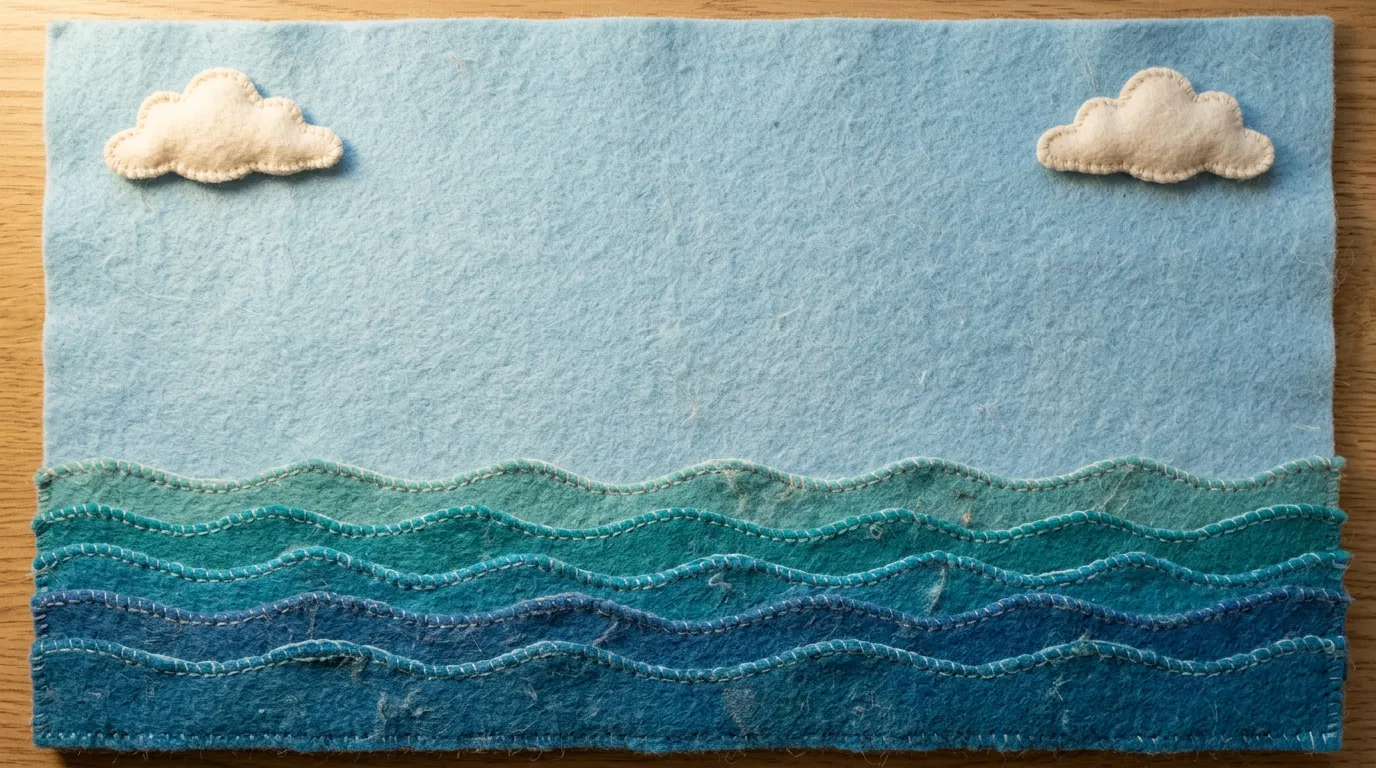
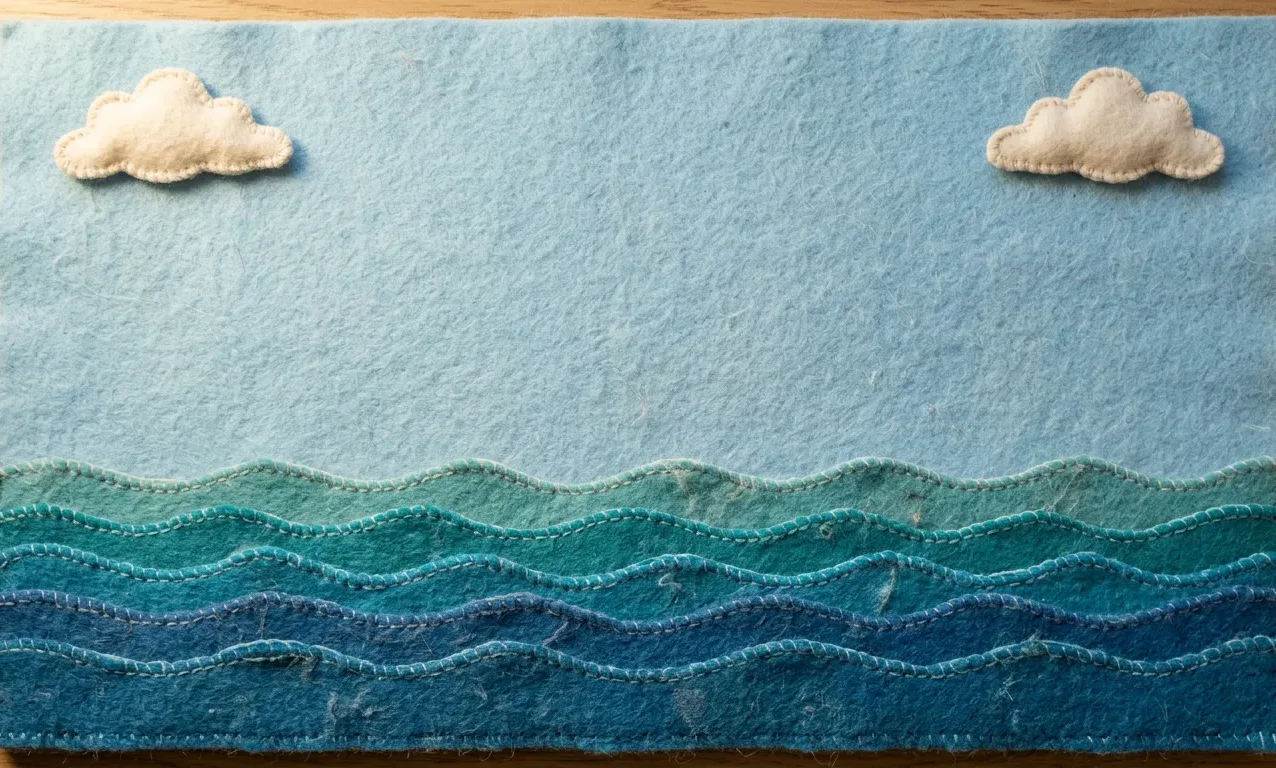
Noah's Ark: felt refresh
Claude-Session: https://claude.ai/code/session_01NGZ57BLqfmAdnsXYVQnQGN

diff --git a/games/ark.html b/games/ark.html
@@ -8,59 +8,59 @@
 <style>
 :root{color-scheme:dark;--display:"Fredoka","Baloo 2",system-ui,sans-serif;--body:"Atkinson Hyperlegible",system-ui,sans-serif;--sky:#3aa0ff}
 html,body{height:100%;margin:0}
-body{background:#140f3a;color:#fff;font-family:var(--body);overflow:hidden;touch-action:manipulation;user-select:none;-webkit-user-select:none;-webkit-tap-highlight-color:transparent}
+body{background:#8fc3dd;color:#4a3213;font-family:var(--body);overflow:hidden;touch-action:manipulation;user-select:none;-webkit-user-select:none;-webkit-tap-highlight-color:transparent}
 .app{height:100%;display:flex;flex-direction:column;box-sizing:border-box;padding:max(10px,env(safe-area-inset-top,0px)) max(14px,env(safe-area-inset-right,0px)) 10px max(14px,env(safe-area-inset-left,0px));gap:8px}
 .top{position:relative;display:flex;align-items:center;justify-content:center;min-height:58px;padding:0 112px}
-#bubble{font-size:clamp(22px,4.2vw,40px);min-height:1.2em;transition:transform .15s}
+#bubble{font-size:clamp(22px,4.2vw,40px);min-height:1.2em;transition:transform .15s;color:#fff8ec;text-shadow:0 3px 0 #7a3d12,0 6px 12px #0005;background:none;box-shadow:none;border:0}
 #bubble.bump{transform:scale(1.08)}
 .tools{position:absolute;right:0;top:50%;transform:translateY(-50%);display:flex;gap:8px;z-index:5}
-.tool{width:52px;height:52px;border-radius:50%;border:2px solid #ffffff55;background:#1a144066;color:#fff;font-size:26px;display:grid;place-items:center;cursor:pointer;padding:0}
-.tool[aria-pressed="true"]{background:#ffd23f;border-color:#fff;box-shadow:0 0 24px #ffd23f99}
+.tool{width:52px;height:52px;border-radius:50%;border:2px dashed #b8401f88;background:#f6ead0;box-shadow:0 3px 0 #0003,0 6px 10px #0003;color:#4a3213;font-size:26px;display:grid;place-items:center;cursor:pointer;padding:0}
+.tool[aria-pressed="true"]{background:#ffd84a;border-color:#b8401f;box-shadow:0 0 22px #ffd84a99,0 3px 0 #0003}
 .tool:focus-visible{outline:4px solid var(--sky);outline-offset:3px}
 
 /* the ark and the sea */
-.sea{position:relative;flex:0 0 clamp(170px,38%,340px);border-radius:26px;overflow:hidden;background:linear-gradient(#5aa9ff,#a8dcff 62%,#3d8fd6 62%,#2573c2)}
-.sea .deck{position:absolute;left:8%;right:8%;top:3%;bottom:39%;display:grid;grid-template-columns:repeat(5,1fr);grid-template-rows:minmax(0,1fr) minmax(0,1fr);gap:2px clamp(4px,1.4vw,14px);align-items:end;z-index:2}
+.sea{position:relative;flex:0 0 clamp(170px,38%,340px);border-radius:26px;overflow:hidden;background:#9cc9e0 url(../felt/ark-bg.webp) center bottom/cover no-repeat;container-type:size;box-shadow:0 6px 0 #0003,0 12px 18px #0003}
+.sea .deck{position:absolute;left:8%;right:8%;top:4%;bottom:41%;display:grid;grid-template-columns:repeat(5,1fr);grid-template-rows:minmax(0,1fr) minmax(0,1fr);gap:2px clamp(4px,1.4vw,14px);align-items:end;z-index:2}
 .sea .deck::before{content:"";position:absolute;left:-3%;right:-3%;top:50%;height:5px;border-radius:3px;background:#b96a3c;box-shadow:0 2px 0 #8a4724;z-index:-1}
 @media (max-width:560px){.top{padding:0 100px}.tool{width:44px;height:44px;font-size:22px}#bubble{font-size:20px}}
 .slot{position:relative;display:flex;align-items:flex-end;justify-content:center;min-width:0;min-height:0;height:100%;overflow:visible}
 .slot .pair{display:flex;width:100%;height:100%;justify-content:center;align-items:flex-end;min-height:0}
-.slot svg{display:block;flex:0 1 56%;margin:0 -3%;min-width:0;height:100%;max-height:100%;opacity:.14;filter:grayscale(1) brightness(2);transform:scale(.8);transition:opacity .3s,transform .4s cubic-bezier(.3,1.7,.5,1),filter .3s}
-.slot.on svg{opacity:1;filter:none;transform:none}
-.slot.on svg+svg{transition-delay:.12s}
-.hull{position:absolute;left:3%;right:3%;bottom:6%;height:34%;z-index:3;filter:drop-shadow(0 6px 8px #0005)}
-.hull svg{width:100%;height:100%;display:block}
+.slot .pi{display:block;flex:0 1 56%;margin:0 -3%;min-width:0;height:100%;max-height:100%;object-fit:contain;object-position:50% 100%;opacity:.14;filter:grayscale(1) brightness(2);transform:scale(.8);transition:opacity .3s,transform .4s cubic-bezier(.3,1.7,.5,1),filter .3s}
+.slot.on .pi{opacity:1;filter:none;transform:none}
+.slot.on .pi+.pi{transition-delay:.12s}
+.hull{position:absolute;left:3%;right:3%;bottom:8cqh;height:38cqh;z-index:3;border:solid transparent;border-width:0 calc(38cqh*.401);border-image:url(../felt/ark-hull2.webp) 0 144 0 144 fill/0 calc(38cqh*.401)/0 round;filter:drop-shadow(0 6px 8px #0005)}
+.hull i{position:absolute;top:54%;width:calc(38cqh*.2);aspect-ratio:1;transform:translate(-50%,-50%);border-radius:50%;background:radial-gradient(circle at 40% 35%,#f8e9c4,#e6cf9b);border:calc(38cqh*.035) solid #4a2c14;box-shadow:inset 0 2px 3px #0004}
+.deck::before{display:none}
 .sea.rock .hull,.sea.rock .deck{animation:rock 3s ease-in-out infinite}
 @keyframes rock{0%,100%{transform:rotate(-1.6deg)}50%{transform:rotate(1.6deg) translateY(-2px)}}
-.waves{position:absolute;left:0;right:0;bottom:0;height:22%;z-index:4;pointer-events:none}
+.waves{display:none}
 .waves svg{width:200%;height:100%;display:block;animation:drift 9s linear infinite}
 @keyframes drift{to{transform:translateX(-50%)}}
 .rainbow{position:absolute;inset:4% 4% 20% 4%;z-index:1;opacity:0;transition:opacity 1s;pointer-events:none}
-.rainbow svg{width:100%;height:100%}
+.rainbow img{width:100%;height:100%;object-fit:contain;object-position:50% 100%}
 .sea.done .rainbow{opacity:1}
 #rain{position:absolute;inset:0;width:100%;height:100%;z-index:5;pointer-events:none;display:none}
-.sea.wet{background:linear-gradient(#5b6f98,#8fa0c2 62%,#2e5f96 62%,#244f84)}
-.sun{position:absolute;right:7%;top:8%;width:clamp(36px,7vw,64px);aspect-ratio:1;border-radius:50%;background:radial-gradient(circle,#fff6c8,#ffd23f 55%,#ffd23f00 72%);z-index:0;transition:opacity .6s}
-.sea.wet .sun{opacity:0}
+.sea.wet::after{content:"";position:absolute;inset:0;background:#3a4f78;mix-blend-mode:multiply;opacity:.65;z-index:4;pointer-events:none}
+.sun{display:none}
 
 /* the animals to tap */
 .grid{flex:1;min-height:0;display:grid;grid-template-columns:repeat(5,1fr);grid-template-rows:repeat(2,1fr);gap:clamp(8px,1.8vw,18px);container-type:size}
 @media (max-aspect-ratio:1/1){.grid{grid-template-columns:repeat(2,1fr);grid-template-rows:repeat(5,1fr)}}
-.card{position:relative;display:grid;grid-template-rows:1fr auto;justify-items:center;align-items:center;min-height:0;border:2px solid #ffffff33;border-radius:22px;background:#ffffff14;padding:6px 4px 8px;cursor:pointer;color:#fff;font:inherit}
+.card{position:relative;display:grid;grid-template-rows:1fr auto;justify-items:center;align-items:center;min-height:0;border:2px dashed #b8401f88;border-radius:18px;background:#f6ead0;box-shadow:0 4px 0 #0003,0 8px 14px #0003;padding:6px 4px 8px;cursor:pointer;color:#4a3213;font:inherit}
 .card:focus-visible{outline:5px solid var(--sky);outline-offset:3px}
 .card .art{position:relative;width:100%;height:100%;min-height:0}
-.card .art svg{position:absolute;inset:0;width:100%;height:100%;overflow:visible}
-.card.pop .art svg{animation:hop .6s cubic-bezier(.3,1.5,.5,1)}
+.card .art .pi{position:absolute;inset:0;width:100%;height:100%;object-fit:contain;filter:drop-shadow(0 4px 3px #0003)}
+.card.pop .art .pi{animation:hop .6s cubic-bezier(.3,1.5,.5,1)}
 @keyframes hop{0%{transform:scale(1)}25%{transform:translateY(-14%) scale(1.14) rotate(-5deg)}55%{transform:scale(.96)}100%{transform:scale(1)}}
 .card .nm{font-family:var(--display);font-weight:600;font-size:clamp(14px,2.4vw,24px);line-height:1.1;text-align:center;min-height:1.1em;padding-top:2px}
-.badge{position:absolute;top:-8px;right:-6px;min-width:34px;height:34px;border-radius:50%;background:linear-gradient(135deg,#ffe27a,#ffa51f);color:#3a2a06;font:700 16px var(--display);display:grid;place-items:center;border:2px solid #fff;box-shadow:0 2px 8px #0006}
-.card.aboard{background:#58d26b26;border-color:#58d26b99}
-.card.aboard .badge{background:linear-gradient(135deg,#a8f0a0,#33a24f);color:#0d3a1a}
+.badge{position:absolute;top:-8px;right:-6px;min-width:34px;height:34px;border-radius:50%;background:#c8402f;color:#fff8ec;font:700 16px var(--display);display:grid;place-items:center;border:2px dashed #fff8ec;box-shadow:0 2px 0 #0004,0 4px 8px #0004}
+.card.aboard{background:#e0efc4;border-color:#5f8f3a}
+.card.aboard .badge{background:#5f8f3a;color:#fff}
 .flyer{position:fixed;left:0;top:0;z-index:20;pointer-events:none;filter:drop-shadow(0 6px 8px #0006)}
-.flyer svg{width:100%;height:100%;display:block}
+.flyer .pi{width:100%;height:100%;display:block;object-fit:contain}
 .k-eyes{animation:blink 5s infinite;transform-box:fill-box;transform-origin:center}
 @keyframes blink{0%,94%,100%{transform:scaleY(1)}97%{transform:scaleY(.1)}}
-@media (prefers-reduced-motion:reduce){.sea.rock .hull,.sea.rock .deck,.waves svg,.card.pop .art svg,.k-eyes{animation:none}.slot svg{transition:none}}
+@media (prefers-reduced-motion:reduce){.sea.rock .hull,.sea.rock .deck,.card.pop .art .pi,.k-eyes{animation:none}.slot .pi{transition:none}}
 </style>
 </head>
 <body>
@@ -74,9 +74,9 @@ body{background:#140f3a;color:#fff;font-family:var(--body);overflow:hidden;touch
   </div>
   <div class="sea" id="sea">
     <div class="sun"></div>
-    <div class="rainbow" aria-hidden="true"><svg viewBox="0 0 200 100" preserveAspectRatio="xMidYMax meet"><g fill="none" stroke-width="7"><path d="M20 100a80 80 0 0 1 160 0" stroke="#ff4d5e"/><path d="M27 100a73 73 0 0 1 146 0" stroke="#ff8a3d"/><path d="M34 100a66 66 0 0 1 132 0" stroke="#ffd23f"/><path d="M41 100a59 59 0 0 1 118 0" stroke="#58d26b"/><path d="M48 100a52 52 0 0 1 104 0" stroke="#3aa0ff"/><path d="M55 100a45 45 0 0 1 90 0" stroke="#8b5cf6"/></g></svg></div>
+    <div class="rainbow" aria-hidden="true"><img src="../felt/ark-rainbow.webp" alt=""></div>
     <div class="deck" id="deck"></div>
-    <div class="hull" aria-hidden="true"><svg viewBox="0 0 400 80" preserveAspectRatio="none"><path d="M0 8h400l-34 60q-8 10-22 10H56q-14 0-22-10Z" fill="url(#k-brown)"/><path d="M0 8h400" stroke="#e3a274" stroke-width="8" stroke-linecap="round"/><g fill="#ffd23f"><circle cx="90" cy="38" r="7"/><circle cx="150" cy="38" r="7"/><circle cx="210" cy="38" r="7"/><circle cx="270" cy="38" r="7"/><circle cx="330" cy="38" r="7"/></g><path d="M40 56h320" stroke="#8a4724" stroke-width="3" opacity=".5"/></svg></div>
+    <div class="hull" aria-hidden="true"><i style="left:21%"></i><i style="left:35.5%"></i><i style="left:50%"></i><i style="left:64.5%"></i><i style="left:79%"></i></div>
     <div class="waves" aria-hidden="true"><svg viewBox="0 0 800 60" preserveAspectRatio="none"><path d="M0 22q50-22 100 0t100 0 100 0 100 0 100 0 100 0 100 0 100 0V60H0Z" fill="#3d8fd6" opacity=".9"/><path d="M0 34q50-16 100 0t100 0 100 0 100 0 100 0 100 0 100 0 100 0V60H0Z" fill="#2573c2"/></svg></div>
     <canvas id="rain"></canvas>
   </div>
@@ -106,6 +106,8 @@ const DATA={
   pt:{title:"A arca de Noé",one:"um",two:"dois",all:"Todos a bordo!",rain:"a chuva",rainbow:"o arco-íris"}
  }
 };
+const PICS={unicorn:"fw-unicorn",cat:"sky-cat",mouse:"peek-mouse",elephant:"sky-elephant",crocodile:"ark-croc",penguin:"fw-penguin",snake:"ark-snake",lion:"ark-lion",turtle:"sky-turtle",parrot:"ark-parrot"};
+const pic=a=>`<img class="pi" src="../felt/${PICS[a]}.webp" alt="" draggable="false">`;
 const W=Object.fromEntries(DATA.words.map(w=>[w.id,w]));
 const $=id=>document.getElementById(id);
 const L=()=>LP.t(DATA.lines);
@@ -116,8 +118,8 @@ function bubble(t){const b=$("bubble");b.textContent=t;b.classList.remove("bump"
 const aboard=new Set();let finishing=false,raining=false,musicOn=false;
 
 function build(){
- $("grid").innerHTML=DATA.words.map(w=>`<button type="button" class="card" data-id="${w.id}" data-tap aria-label="${word(w.id)}"><span class="badge">×2</span><span class="art">${LPLook.pic(w.art)}</span><span class="nm">${word(w.id)}</span></button>`).join("");
- $("deck").innerHTML=DATA.words.map(w=>`<div class="slot" data-slot="${w.id}"><div class="pair">${LPLook.pic(w.art)}${LPLook.pic(w.art)}</div></div>`).join("");
+ $("grid").innerHTML=DATA.words.map(w=>`<button type="button" class="card" data-id="${w.id}" data-tap aria-label="${word(w.id)}"><span class="badge">×2</span><span class="art">${pic(w.art)}</span><span class="nm">${word(w.id)}</span></button>`).join("");
+ $("deck").innerHTML=DATA.words.map(w=>`<div class="slot" data-slot="${w.id}"><div class="pair">${pic(w.art)}${pic(w.art)}</div></div>`).join("");
  aboard.forEach(id=>{document.querySelector(`[data-slot="${id}"]`).classList.add("on");document.querySelector(`[data-id="${id}"]`).classList.add("aboard")});
 }
 function relabel(){document.querySelectorAll(".card").forEach(c=>{const t=word(c.dataset.id);c.setAttribute("aria-label",t);c.querySelector(".nm").textContent=t})}
@@ -143,13 +145,13 @@ function animalSound(id){
 
 /* two of the animal hop from their card up to the deck */
 function fly(card,id){
- const slot=document.querySelector(`[data-slot="${id}"]`),svgs=[...slot.querySelectorAll("svg")];
- const from=card.querySelector(".art svg").getBoundingClientRect();
+ const slot=document.querySelector(`[data-slot="${id}"]`),svgs=[...slot.querySelectorAll(".pi")];
+ const from=card.querySelector(".art .pi").getBoundingClientRect();
  const reduce=matchMedia("(prefers-reduced-motion: reduce)").matches;
  let left=svgs.length;
  svgs.forEach((dst,i)=>{
   const to=dst.getBoundingClientRect(),size=Math.max(28,Math.min(to.width,to.height)*1.1),f=document.createElement("div");
-  f.className="flyer";f.style.width=f.style.height=size+"px";f.innerHTML=card.querySelector(".art svg").outerHTML;document.body.appendChild(f);
+  f.className="flyer";f.style.width=f.style.height=size+"px";f.innerHTML=card.querySelector(".art .pi").outerHTML;document.body.appendChild(f);
   const x0=from.left+from.width/2-size/2,y0=from.top+from.height/2-size/2,x1=to.left+to.width/2-size/2,y1=to.top+to.height/2-size/2;
   const dur=reduce?1:700+i*160,mid=Math.min(y0,y1)-60;
   const a=f.animate([{transform:`translate(${x0}px,${y0}px) scale(${from.height/size})`},{transform:`translate(${(x0+x1)/2}px,${mid}px) scale(1.1)`,offset:.5},{transform:`translate(${x1}px,${y1}px) scale(1)`}],{duration:dur,easing:"cubic-bezier(.4,0,.3,1)",fill:"forwards"});
@@ -220,7 +222,7 @@ LP.init({langs:ALLLANGS,
  onLang:()=>{document.title=L().title;relabel();bubble(L().title)},
  onAge:()=>{}});
 document.title=L().title;
-LPLook.sky($("app"),{mode:"day",hills:false});
+
 document.querySelector("body").insertAdjacentHTML("afterbegin",'<svg width="0" height="0" style="position:absolute" aria-hidden="true"><defs></defs></svg>');
 build();bubble(L().title);$("sea").classList.add("rock");
 LP.start(L().title,()=>{LP.say(L().title)});
